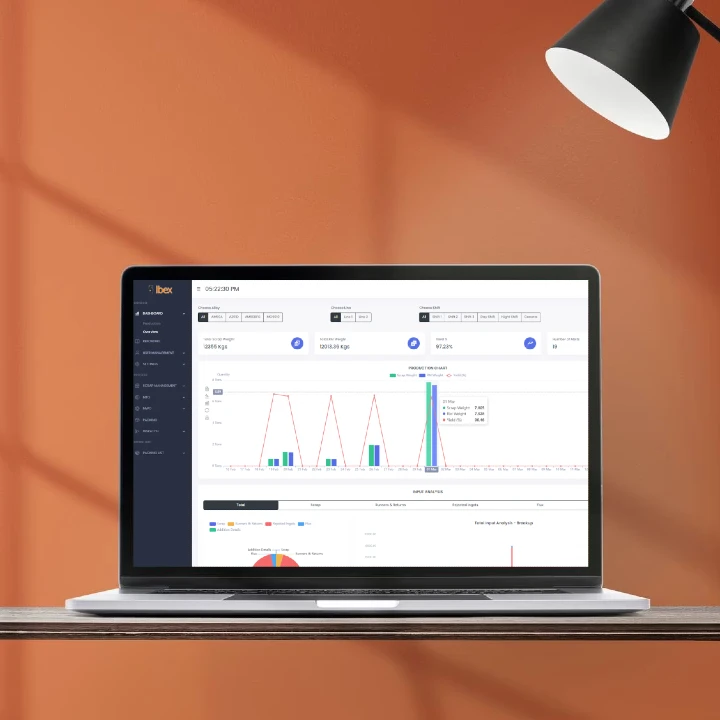
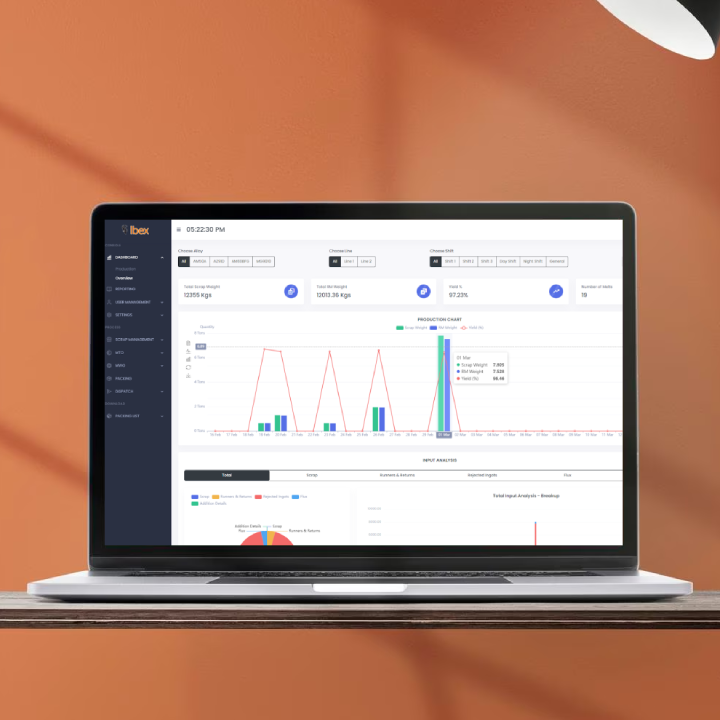
fix(images):porfolio images zoomed in

diff --git a/index.html b/index.html
@@ -601,7 +601,7 @@
 
 
             <div class="portfolio-right-image one_half last">
-              <img src="images/portfolio/device-man.webp" alt="" loading="lazy">
+              <img src="images/portfolio/lap-2.webp" alt="" loading="lazy">
             </div>
 
           </div>
